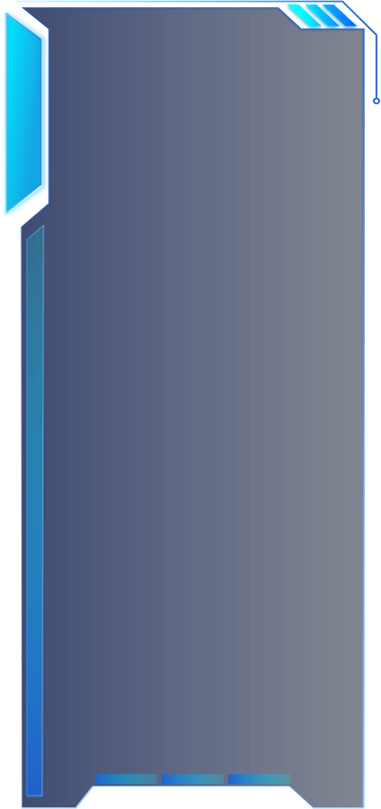
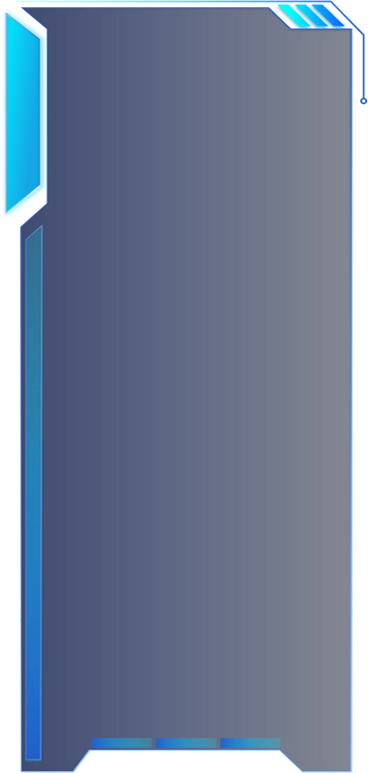
ui修改

diff --git a/src/App.vue b/src/App.vue
@@ -64,7 +64,7 @@
             ><el-form-item label="高差"
               ><el-input v-model="form.elevation"></el-input></el-form-item
             ><el-form-item label="潜在滑坡体积规模"
-              ><el-select v-model="form.scale"
+              ><el-select v-model="form.scale" teleport=".top-container"
                 ><el-option label="小型" value="small" /><el-option
                   label="中型"
                   value="middle" /><el-option
@@ -89,7 +89,9 @@
           <el-form :model="form_disastersearch">
             <el-form-item label="区划查询" style="width: 500px">
               <div class="flex-container">
-                <el-select v-model="form_disastersearch.location"
+                <el-select
+                  v-model="form_disastersearch.location"
+                  teleport=".top-container"
                   ><el-option label="林芝市" value="林芝市"> </el-option
                   ><el-option label="朗县" value="朗县"> </el-option
                   ><el-option label="察隅县" value="察隅县"> </el-option
@@ -107,7 +109,10 @@
             </el-form-item>
             <el-form-item label="属性查询" style="width: 500px">
               <div class="flex-container">
-                <el-select v-model="form_disastersearch.attribute">
+                <el-select
+                  v-model="form_disastersearch.attribute"
+                  teleport=".top-container"
+                >
                   <el-option label="地点" value="location"></el-option
                   ><el-option label="坡度" value="slope"></el-option
                   ><el-option label="规模" value="scale"></el-option></el-select
@@ -448,7 +453,16 @@ onMounted(async () => {
     animation: false, //隐藏动画控件
     timeline: false, //隐藏时间控件
     infoBox: true,
+    cesiumViewerBottom: false,
   })
+  // 初始化完成后，隐藏.cesium-viewer-bottom（延迟50ms确保DOM已生成）
+  setTimeout(() => {
+    const bottomBar = document.querySelector('.cesium-viewer-bottom')
+    if (bottomBar) {
+      bottomBar.style.display = 'none'
+      bottomBar.style.visibility = 'hidden'
+    }
+  }, 50)
   // initRightClickHandler()
   // console.log(pnames.value)
   //ScreenSpaceEventHandler是用于处理屏幕空间事件（例如鼠标点击、移动等）。该代码是将其绑定到指定的Cesiuim场景的canvas元素上。该实例监听canvas元素相关的鼠标和触摸事件。
@@ -3633,10 +3647,6 @@ const cleanentity = () => {
   height: 100vh;
   /* padding: 16px; */
   /* box-sizing: border-box; */
-}
-
-.cesium-viewer-bottom {
-  display: none;
 }
 
 /* 媒体查询设置显示比例 */

diff --git a/src/components/ZhJc.vue b/src/components/ZhJc.vue
@@ -24,7 +24,7 @@
             alt="林芝市灾害应急管理局"
           />
           <!-- <img src="../assets/img/top8.png" alt="" /> -->
-          <span>高山工程区灾害链数值模型集成平台</span>
+          <span>冰川区灾害链判识-评估-预警-断链综合防控系统</span>
         </div>
       </div>
       <!-- <div class="top-right6">
@@ -182,9 +182,9 @@ function formatTime(time) {
 }
 .top .top-left .theme {
   position: absolute;
-  left: 585px;
+  left: 559px;
   top: 0;
-  font-size: 38px;
+  font-size: 29px;
   font-family: 'Trebuchet MS', 'Lucida Sans Unicode', 'Lucida Grande',
     'Lucida Sans', Arial, sans-serif;
   font-weight: 700;

diff --git a/src/components/LeTh.vue b/src/components/LeTh.vue
@@ -806,10 +806,10 @@ const submit_inverseV = async () => {
   // max-height: 850px;
   top: 62px;
   left: 10px;
-  background: url('../assets/img/left_theme_2.png');
+  background: url('../assets/img/left_theme_3.png');
   background-size: cover;
   width: 400px;
-  height: 850px;
+  height: 819px;
 }
 
 .name {

diff --git a/src/components/ZyMl.vue b/src/components/ZyMl.vue
@@ -610,7 +610,7 @@ const handleClick = (node, data) => {
   position: absolute;
   right: 20px;
   top: 85px;
-  height: 950px;
+  height: 790px;
   width: 320px;
   background-image: url(../assets/img/c1.png);
 
